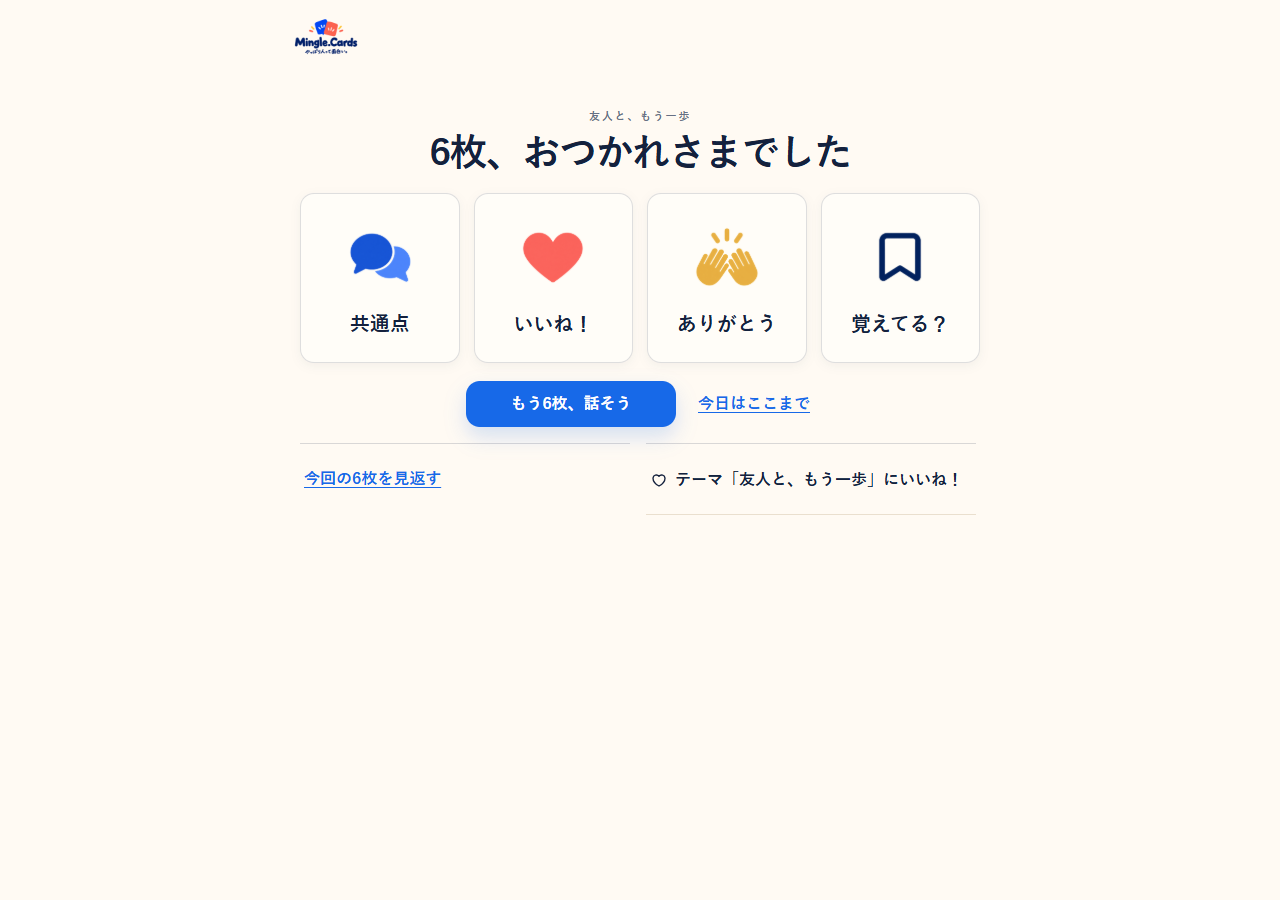
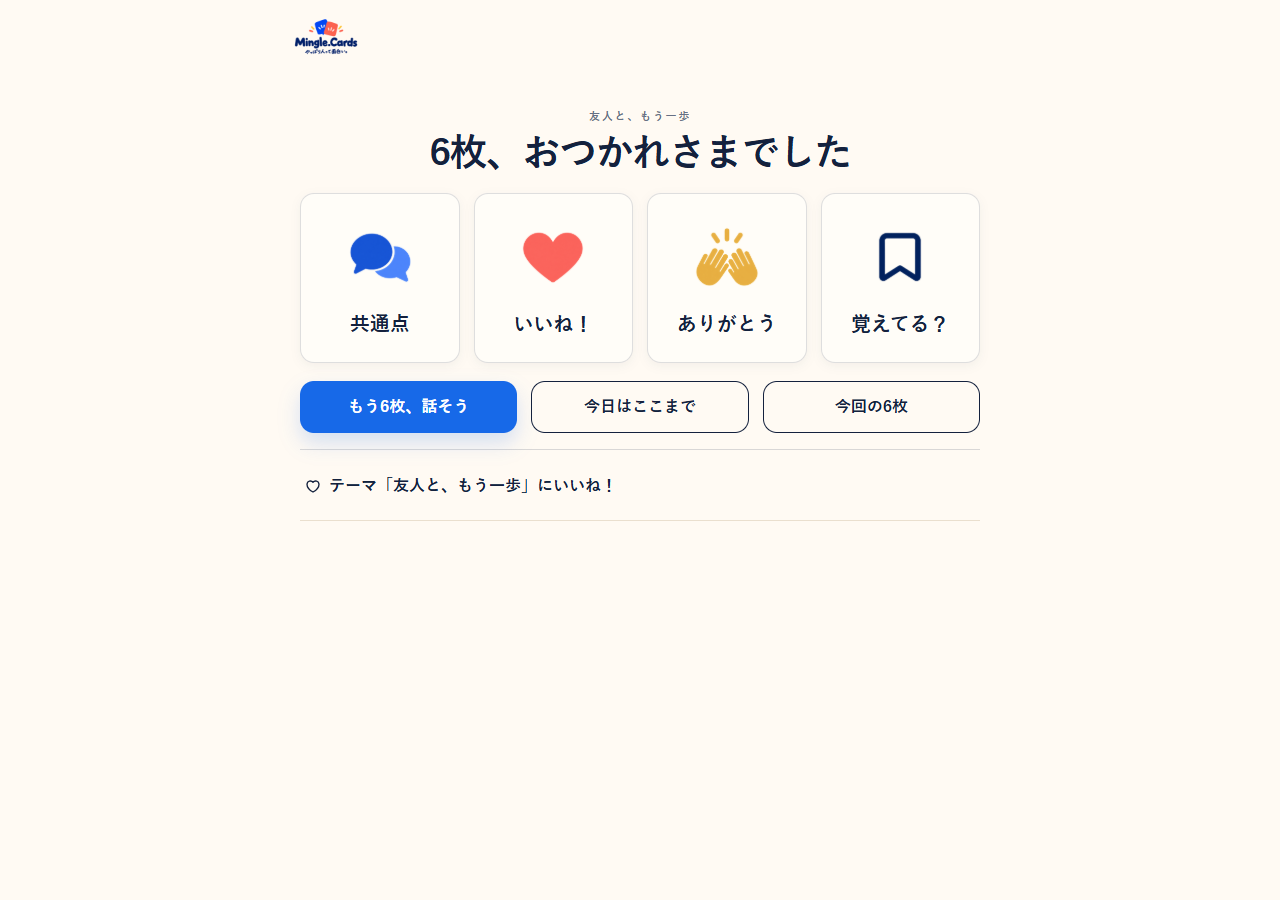
Refine completion recap actions and layout

Changed region(s): [[0.2188, 0.4044, 0.625, 0.56], [0.5312, 0.5289, 0.75, 0.56], [0.6562, 0.4356, 0.7188, 0.4667]]

diff --git a/dist/app.js b/dist/app.js
@@ -1503,7 +1503,7 @@ function roundFavoriteContext(session) {
   else state.roundFavorite.cards = cards;
   return state.roundFavorite;
 }
-function roundFavoriteView(session, { inline = false, compact = false } = {}) {
+function roundFavoriteView(session, { inline = false, compact = false, omitToggle = false, id = "" } = {}) {
   const context = roundFavoriteContext(session); if (!context) return "";
   const canSaveCard = (card) => !session.sponsorSet && card.kind !== "challenge" && card.sourceDeckId !== "custom" && card.custom !== true && !(card.r18 === true && !session.adultConfirmed);
   const selectable = context.cards.filter((card) => canSaveCard(card) && !state.account.favorites.has(card.id));
@@ -1520,7 +1520,7 @@ function roundFavoriteView(session, { inline = false, compact = false } = {}) {
   if (inline) return `<section class="round-favorites round-favorites-inline" aria-labelledby="round-favorites-title"><h2 id="round-favorites-title">このラウンドで見た質問</h2><div class="round-favorite-list">${rows}</div>${action}<p class="form-error" role="alert">${esc(context.error || "")}</p></section>`;
   const savedCount = context.cards.filter((card) => canSaveCard(card) && state.account.favorites.has(card.id)).length;
   const list = context.expanded ? `<div class="round-favorite-list">${rows}</div>${action}` : `<p class="round-collapsed-copy">${savedCount}件保存済み</p>`;
-  if (compact) { const compactList = context.expanded ? `<div class="round-favorite-list">${rows}</div>${action}` : ""; return `<section class="round-favorites round-favorites-compact" aria-label="今回の質問"><button type="button" class="round-section-toggle" data-action="round-favorite-toggle" aria-expanded="${context.expanded}">${context.expanded ? "閉じる" : `今回の${context.cards.length}枚を見返す`}</button>${compactList}<p class="form-error" role="alert">${esc(context.error || "")}</p></section>`; }
+  if (compact) { const compactList = context.expanded ? `<div class="round-favorite-list">${rows}</div>${action}` : ""; const toggle = omitToggle ? "" : `<button type="button" class="round-section-toggle" data-action="round-favorite-toggle" aria-expanded="${context.expanded}">${context.expanded ? "閉じる" : `今回の${context.cards.length}枚を見返す`}</button>`; return `<section${id ? ` id="${esc(id)}"` : ""} class="round-favorites round-favorites-compact" aria-label="今回の質問">${toggle}${compactList}<p class="form-error" role="alert">${esc(context.error || "")}</p></section>`; }
   return `<section class="round-favorites" aria-labelledby="round-favorites-title"><div class="round-section-head"><h2 id="round-favorites-title">気に入った質問を保存</h2><span class="round-section-count">${context.cards.length}件</span></div><button type="button" class="round-section-toggle" data-action="round-favorite-toggle" aria-expanded="${context.expanded}">${context.expanded ? "閉じる" : "質問を選ぶ"}</button>${list}<p class="form-error" role="alert">${esc(context.error || "")}</p></section>`;
 }
 
@@ -1624,19 +1624,23 @@ function completionRecallPrompt(session, reply) {
 function completionChoiceView(session, favoriteBusy = false) {
   const key = completionReplyKey(session); const info = roundCompletionInfo(session); const reply = completionReplyState(key); const selected = reply.choice || "";
   const recallAvailable = completionRecallEntries(session).length >= 1;
+  const reviewContext = roundFavoriteContext(session);
   const busy = state.busy || favoriteBusy;
   const next = info.final
     ? `<button type="button" class="primary-button" data-action="decks"${busy ? " disabled" : ""}>次のテーマを選ぶ</button>`
     : `<button type="button" class="primary-button" data-action="continue"${busy ? " disabled" : ""}>もう${info.nextCount}枚、話そう</button>`;
-  const actions = `<div class="completion-choice-actions">${next}<button type="button" class="completion-link completion-finish" data-action="finish"${busy ? " disabled" : ""}>今日はここまで</button></div>`;
+  const reviewPanelId = reviewContext ? `completion-review-${reviewContext.sessionId}-${reviewContext.roundStart}` : "";
+  const reviewAction = reviewContext ? `<button type="button" class="secondary-button completion-review-button" data-action="round-favorite-toggle" aria-expanded="${reviewContext.expanded}" aria-controls="${esc(reviewPanelId)}"${busy ? " disabled" : ""}>今回の${reviewContext.cards.length}枚</button>` : "";
+  const actions = `<div class="completion-choice-actions">${next}<button type="button" class="secondary-button completion-finish" data-action="finish"${busy ? " disabled" : ""}>今日はここまで</button>${reviewAction}</div>`;
+  const reviewPanel = reviewContext?.expanded ? roundFavoriteView(session, { compact: true, omitToggle: true, id: reviewPanelId }) : "";
   if (selected) {
     const entries = completionRecallEntries(session); const alternatives = entries.filter((entry) => !(entry.cardId === reply.recallCardId && entry.participantIndex === reply.recallParticipantIndex));
     const prompt = selected === "recall" ? completionRecallPrompt(session, reply) : completionActions[selected].prompt;
     const nextRecall = selected === "recall" && alternatives.length ? `<button type="button" class="completion-recall-next-button" data-action="completion-recall-next">別の1問</button>` : "";
-    return `<div class="completion-choice-stage is-selected" data-completion-choice-stage><div class="completion-choice-instruction"><button type="button" class="completion-choice-back" data-action="completion-choice-back">4つから選ぶ</button>${selected === "recall" ? "" : `<p class="completion-choice-eyebrow">${esc(completionActions[selected].label)}</p>`}<p class="completion-choice-prompt">${prompt}</p>${nextRecall}</div>${actions}</div>`;
+    return `<div class="completion-choice-stage is-selected" data-completion-choice-stage><div class="completion-choice-instruction"><button type="button" class="completion-choice-back" data-action="completion-choice-back">他のふりかえりを選ぶ</button>${completionActionIcon(completionActions[selected].icon)}<p class="completion-choice-prompt">${prompt}</p>${nextRecall}</div>${actions}${reviewPanel}</div>`;
   }
   const cards = Object.entries(completionActions).map(([id, item]) => `<button type="button" class="completion-choice-card${id === "recall" && !recallAvailable ? " is-disabled" : ""}" data-action="completion-choice" data-choice="${id}" ${id === "recall" && !recallAvailable ? "disabled" : ""}>${completionActionIcon(item.icon)}<span>${esc(item.label)}</span>${id === "recall" && !recallAvailable ? `<small>今回は振り返る回答がありません</small>` : ""}</button>`).join("");
-  return `<div class="completion-choice-stage" data-completion-choice-stage><div class="completion-choice-grid" role="group" aria-label="締めくくりを選ぶ">${cards}</div>${actions}</div>`;
+  return `<div class="completion-choice-stage" data-completion-choice-stage><div class="completion-choice-grid" role="group" aria-label="締めくくりを選ぶ">${cards}</div>${actions}${reviewPanel}</div>`;
 }
 function roundCompletionView(session, { solo = false, favoriteBusy = false } = {}) {
   if (!session || session.sharedGuest || session.venueSession) return '';
@@ -1733,7 +1737,7 @@ function roundView() {
   const legacyIntro = completion ? '' : `${renderAd("round")}<img class="round-hero" src="/assets/friends-conversation-closeup.png" alt="会話を楽しむ人たち" width="1611" height="976" /><span class="round-badge">${session.cursor} / ${totalCards}</span><h1 tabindex="-1" data-focus>今回のミングルは<br>どうだった？</h1>`;
   const completionAd = completion ? renderAd("round") : "";
   const legacyActions = `<div class="break-actions">${!isFinal ? `<button class="primary-button" data-action="continue" ${state.busy || favoriteBusy ? "disabled" : ""}>${state.busy ? "確認中…" : `${actionIcon("right")}つづける`}</button>` : ""}<button class="secondary-button" data-action="finish" aria-label="プレイを終わる" title="終わる" ${favoriteBusy ? "disabled" : ""}>${actionIcon("stop")}終わる</button><button class="secondary-button social-share-button" data-action="social-share" aria-label="SNSでシェア" title="シェア" ${favoriteBusy ? "disabled" : ""}>${actionIcon("share")}シェア</button></div>`;
-  const completionExtras = completion ? `${roundFavoriteView(session, { compact: true })}${completionSponsorView(session)}${roundThemeLikeView(session)}${endingLink}<p class="form-error" role="alert">${esc(state.error)}</p>` : `${likeTotalsView(session)}${feedbackForm}${completionAd}${endingLink}${state.shareStatus ? `<p class="account-status" role="status">${esc(state.shareStatus)}</p>` : ""}${state.shareFallbackText ? `<label class="share-fallback-label">共有文<textarea readonly data-share-fallback rows="4">${esc(state.shareFallbackText)}</textarea></label>` : ""}<p class="form-error" role="alert">${esc(state.error)}</p><button class="back-link" data-action="decks" aria-label="テーマを変更" title="テーマを変更" ${favoriteBusy ? "disabled" : ""}>${actionIcon("grid")}テーマ</button>`;
+  const completionExtras = completion ? `${session.mode === "solo" ? roundFavoriteView(session, { compact: true }) : ""}${completionSponsorView(session)}${roundThemeLikeView(session)}${endingLink}<p class="form-error" role="alert">${esc(state.error)}</p>` : `${likeTotalsView(session)}${feedbackForm}${completionAd}${endingLink}${state.shareStatus ? `<p class="account-status" role="status">${esc(state.shareStatus)}</p>` : ""}${state.shareFallbackText ? `<label class="share-fallback-label">共有文<textarea readonly data-share-fallback rows="4">${esc(state.shareFallbackText)}</textarea></label>` : ""}<p class="form-error" role="alert">${esc(state.error)}</p><button class="back-link" data-action="decks" aria-label="テーマを変更" title="テーマを変更" ${favoriteBusy ? "disabled" : ""}>${actionIcon("grid")}テーマ</button>`;
   return frame(`<div class="round-break">${legacyIntro}${completion || roundThemeLikeView(session)}${completion ? completionExtras : `${legacyActions}${completionExtras}${roundFavoriteView(session)}`}</div>${completion ? "" : state.shareDialogOpen ? roundShareDialogView() : ""}${accountOverlay}`);
 }
 
@@ -2895,7 +2899,7 @@ async function handleAction(event) {
     }
     return;
   }
-  if (action === "round-favorite-toggle") { const context = state.roundFavorite; if (!context || context.saving) return; context.expanded = !context.expanded; render(); return; }
+  if (action === "round-favorite-toggle") { const context = state.roundFavorite; if (!context || context.saving) return; context.expanded = !context.expanded; state.focusSelector = '[data-action="round-favorite-toggle"]'; render(); return; }
   if (action === "round-favorite-login") {
     const context = state.roundFavorite;
     if (!context || context.saving || ![...context.selected].some((id) => !state.account.favorites.has(id)) || !state.account.enabled) return;

diff --git a/dist/styles.css b/dist/styles.css
@@ -1000,7 +1000,13 @@ body.solo-play .app-shell[data-screen="play"] .solo-answer-actions{display:grid;
   .round-break:has(.round-completion) .round-favorites-compact,
   .round-break:has(.round-completion) .theme-likes { display:inline-block; width:calc(50% - 10px); box-sizing:border-box; vertical-align:top; margin-top:8px; }
   .round-break:has(.round-completion) .theme-likes { margin-left:16px; }
+  .round-break:has(.round-completion.is-group) .round-favorites-compact { display:block; width:100%; margin-left:0; }
+  .round-break:has(.round-completion.is-group) .theme-likes { display:block; width:100%; margin-left:0; }
 }
+.round-break:has(.round-completion.is-group) .round-favorites-compact .round-favorite-row { display:grid; grid-template-columns:28px minmax(0,1fr) 44px; align-items:center; gap:7px; min-height:48px; padding:7px 0; text-align:left; }
+.round-break:has(.round-completion.is-group) .round-favorites-compact .round-favorite-index { color:var(--muted); font-size:12px; font-variant-numeric:tabular-nums; text-align:center; }
+.round-break:has(.round-completion.is-group) .round-favorites-compact .round-favorite-text { min-width:0; color:var(--ink); font-size:14px; line-height:1.45; }
+.round-break:has(.round-completion.is-group) .round-favorites-compact .round-favorite-mark { color:var(--blue); font-size:24px; line-height:1; text-align:center; }
 @media (max-width:759px) {
   .round-break:has(.round-completion) { padding:16px 16px 0; }
   .round-break:has(.round-completion) .round-completion { padding-bottom:0; }
@@ -1042,11 +1048,13 @@ body.solo-play .app-shell[data-screen="play"] .solo-answer-actions{display:grid;
 .completion-choice-card.is-disabled { color:var(--muted); cursor:default; opacity:.72; }
 .completion-choice-card small { max-width:14ch; font-size:11px; line-height:1.4; font-weight:600; }
 .completion-choice-image { display:block; width:80px; height:80px; object-fit:contain; }
-.completion-choice-actions { display:flex; justify-content:center; align-items:center; gap:18px; flex-wrap:wrap; }
-.completion-choice-actions .primary-button { width:auto; min-width:210px; }
+.completion-choice-actions { display:grid; grid-template-columns:repeat(3,minmax(0,1fr)); gap:14px; }
+.completion-choice-actions > button { width:100%; min-width:0; min-height:52px; border-radius:14px; padding:0 14px; font-weight:900; }
+.completion-choice-actions .primary-button { width:100%; }
+.completion-choice-actions .completion-review-button,.completion-choice-actions .completion-finish { border:1.5px solid var(--ink); background:transparent; color:var(--ink); box-shadow:none; }
 .completion-choice-instruction { min-height:170px; display:flex; flex-direction:column; align-items:center; justify-content:center; gap:10px; padding:24px; border:1px solid color-mix(in srgb,var(--ink) 14%,transparent); border-radius:14px; background:#fffdf8; }
 .completion-choice-back { align-self:flex-start; border:0; padding:4px 0; background:transparent; color:var(--blue); font:inherit; font-size:13px; text-decoration:underline; cursor:pointer; }
-.completion-choice-eyebrow { margin:0; color:var(--muted); font-size:12px; font-weight:800; letter-spacing:.12em; }
+.completion-choice-instruction .completion-choice-image { width:52px; height:52px; }
 .completion-choice-prompt { margin:0; color:var(--ink); font-size:clamp(18px,2.4vw,24px); font-weight:800; line-height:1.55; text-align:center; }
 .completion-choice-prompt small { display:block; margin-top:10px; font-size:15px; font-weight:600; line-height:1.6; }
 .completion-recall-next-button { border:0; border-bottom:1px solid currentColor; padding:4px 0; background:transparent; color:var(--blue); font:inherit; font-size:13px; cursor:pointer; }
@@ -1054,7 +1062,8 @@ body.solo-play .app-shell[data-screen="play"] .solo-answer-actions{display:grid;
   .completion-choice-grid { grid-template-columns:repeat(2,minmax(0,1fr)); gap:10px; }
   .completion-choice-card { min-height:138px; padding:14px 8px; font-size:17px; }
   .completion-choice-image { width:72px; height:72px; }
-  .completion-choice-actions { gap:10px; }
+  .completion-choice-instruction .completion-choice-image { width:48px; height:48px; }
+  .completion-choice-actions { grid-template-columns:1fr; gap:10px; }
   .completion-choice-actions .primary-button { width:100%; }
 }
 .sponsor-completion-note { margin:12px auto 16px; max-width:36rem; text-align:center; color:#33445f; }

diff --git a/docs/design/session-completion/SPEC.md b/docs/design/session-completion/SPEC.md
@@ -9,7 +9,8 @@ The completion screen uses a compact warm-cream summary with four equal actions:
 - Scope root: `.round-completion`.
 - `.round-completion-layout` contains `.round-completion-main`; the old decorative card fan is not part of the completion DOM.
 - `.completion-choice-grid` contains four equal action cards, four columns on desktop and two by two on narrow screens. The four generated icon assets live under `dist/assets/completion/` and are rendered as decorative images.
-- `.completion-choice-stage` replaces the grid in the same region. It shows one instruction and a `4つから選ぶ` return control; the list and instruction never render together.
+- `.completion-choice-stage` replaces the grid in the same region. It shows one small matching icon (48–52px box), one instruction, and an `他のふりかえりを選ぶ` return control; the list and instruction never render together.
+- The shared action group has three equal actions: continue (blue), finish (navy outline), and `今回のN枚` (navy outline). The third action toggles the existing round question recap below the group and reflects `aria-expanded`; the old duplicate recap link is omitted for group completion. On mobile the three actions stack at equal width.
 - `.round-favorites-compact` and `.theme-likes` remain available below the compact action area, along with save, continue, and finish behavior.
 - `覚えてる？` uses only an in-memory map of completed ordinary card answers for the current round: card ID, participant name/index, and question text. It records on the normal next-card action, excludes pass and challenge/together cards, is never serialized or sent to an API, and disables itself when there are no candidates. A second question is offered only when another candidate exists.
 - Solo sessions keep the existing self-directed completion copy and do not show prompts addressed to other people.
